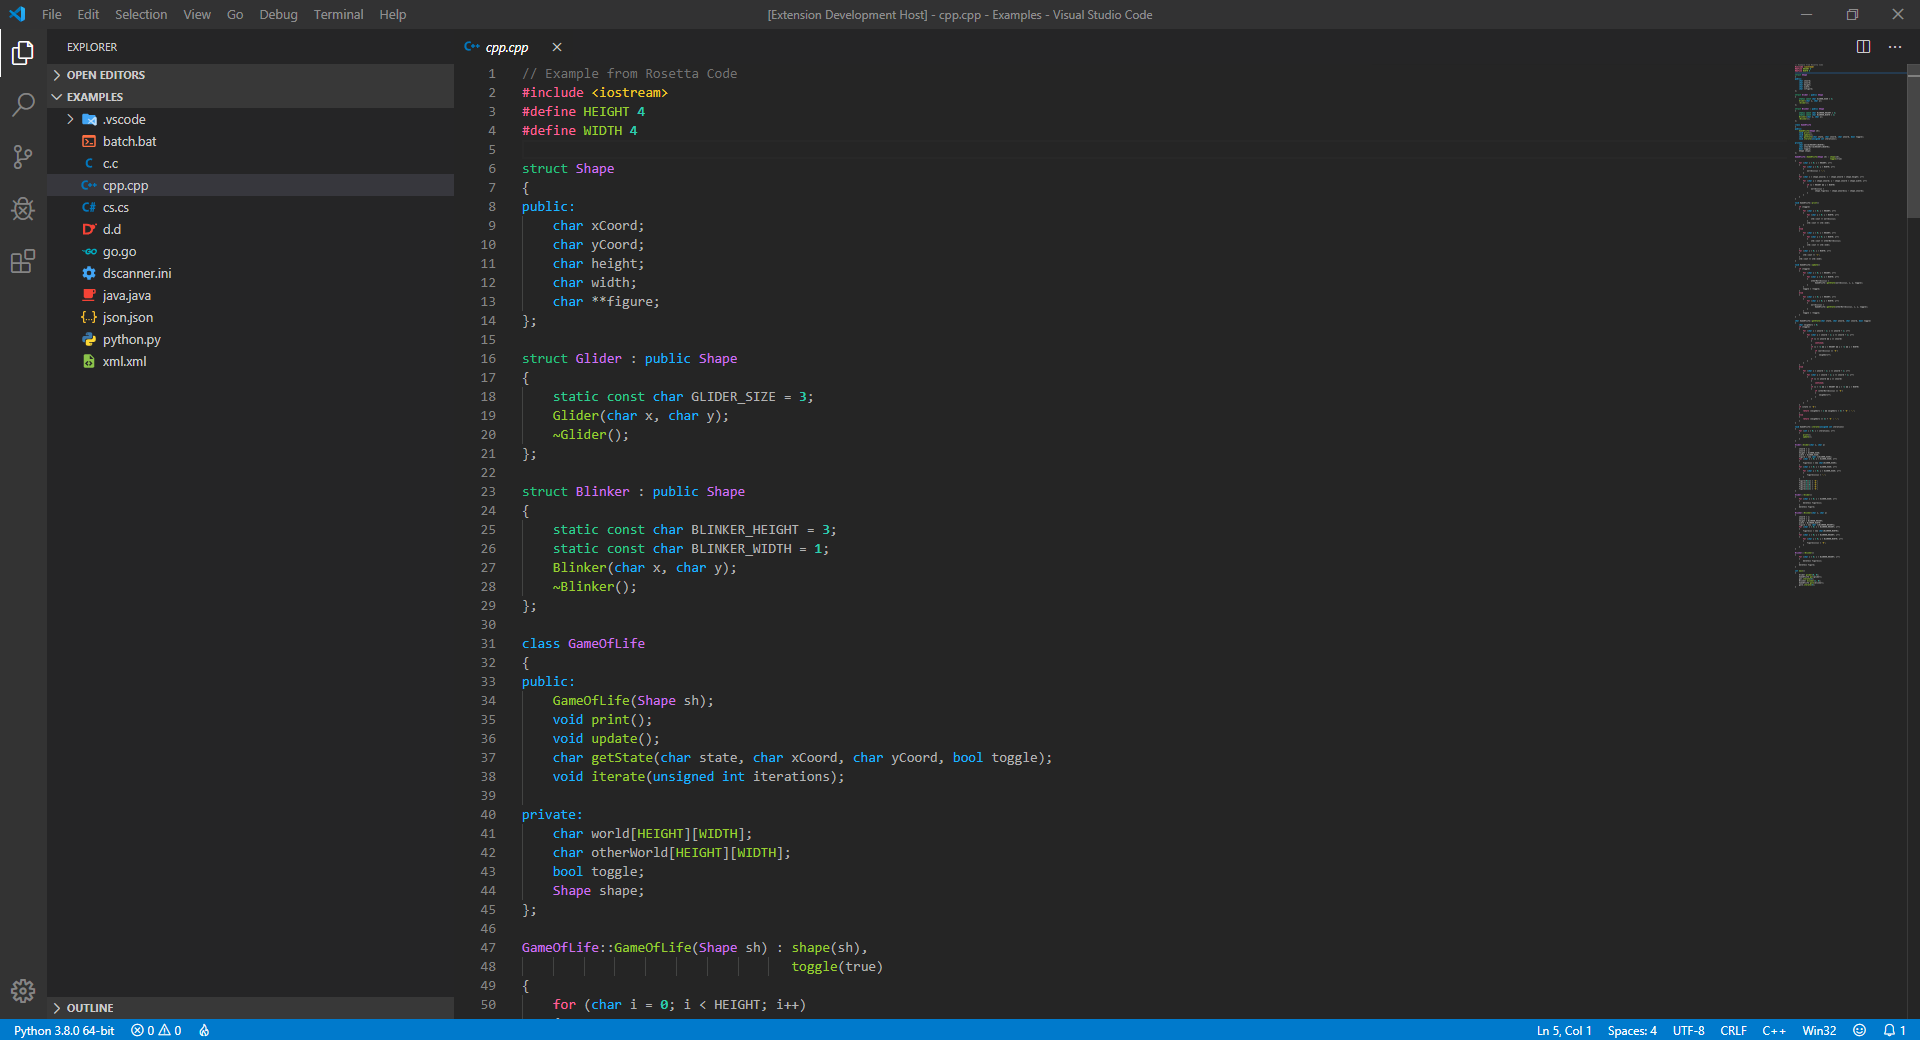
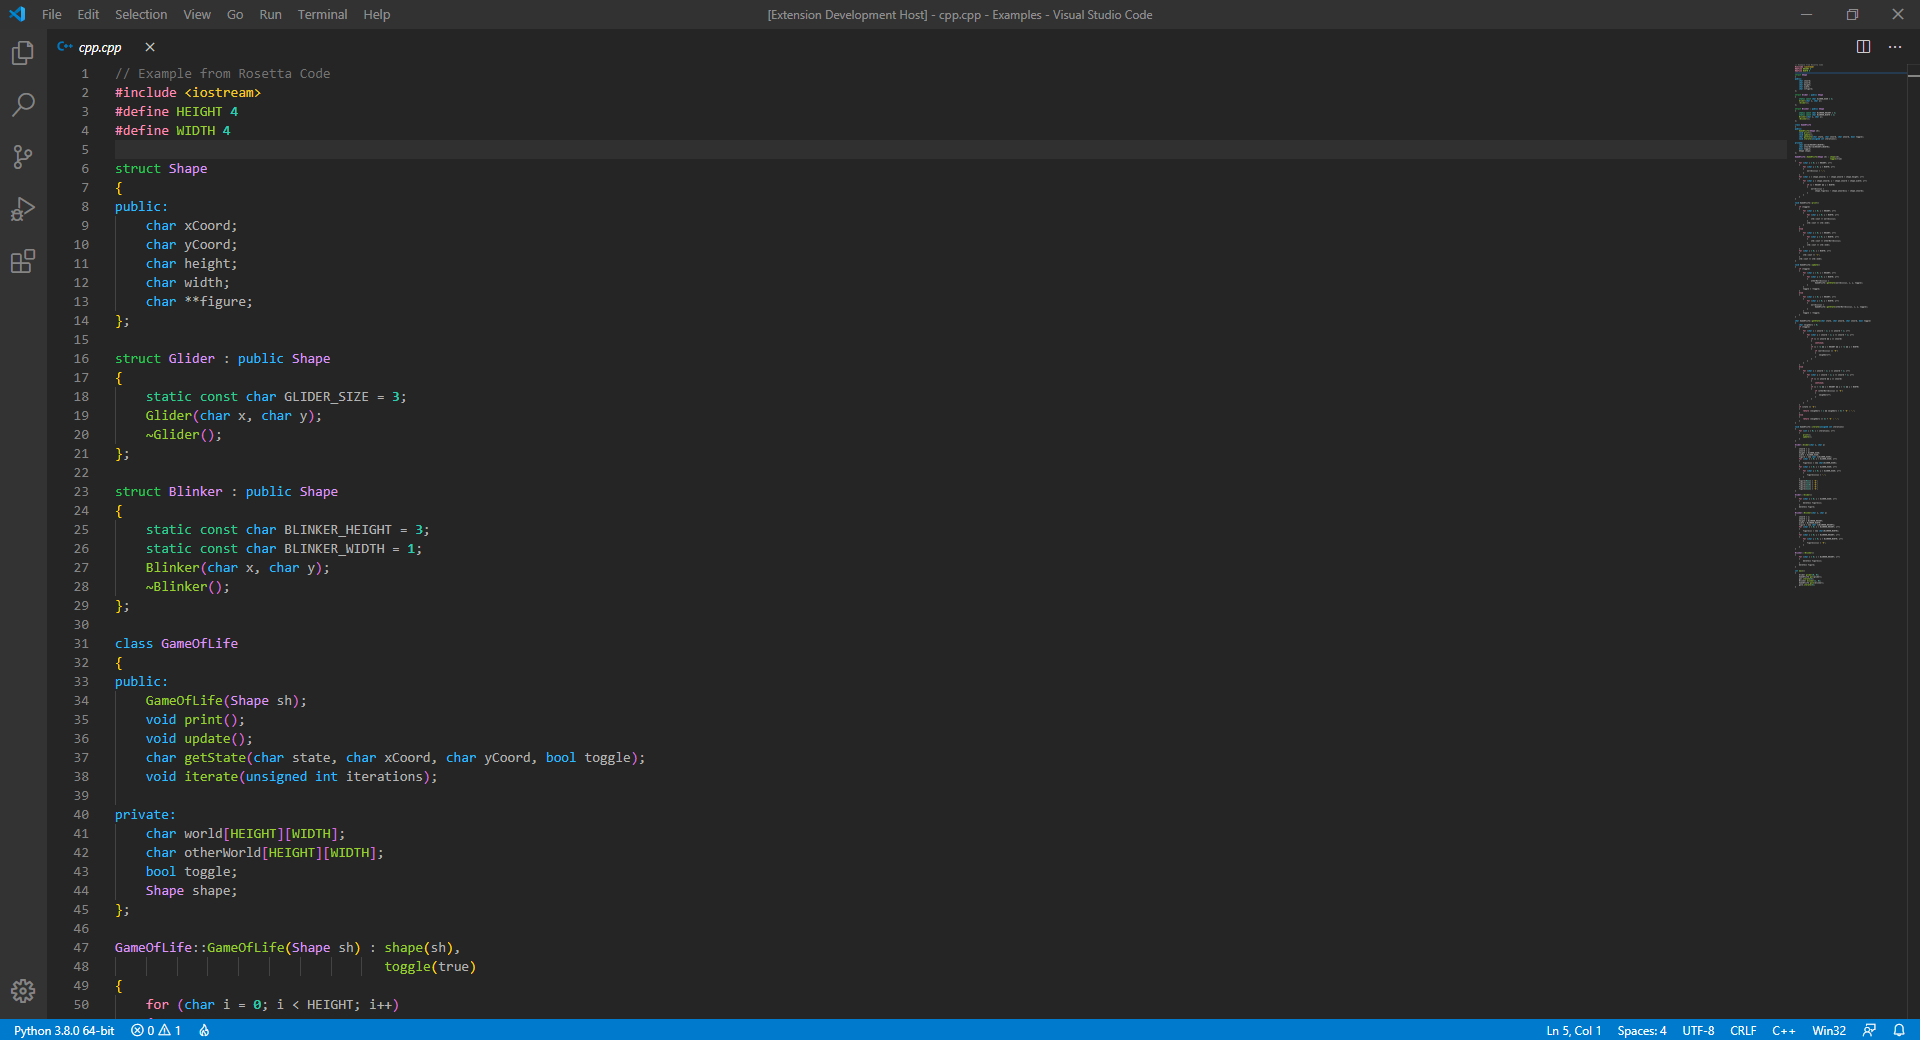
Updated to version 0.0.7

diff --git a/CHANGELOG.md b/CHANGELOG.md
@@ -1,5 +1,8 @@
 # Change Log
 
+## [0.0.7] - 2020-03-12
+- Lots of bug fixes for C++, C and Python.
+
 ## [0.0.6] - 2019-12-23
 - Updated the struct keyword color.
 
